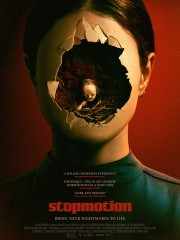
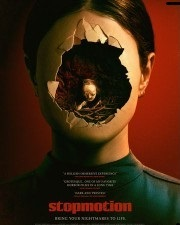
Adjusted the image card

diff --git a/components/movieSchedule/MovieCard.jsx b/components/movieSchedule/MovieCard.jsx
@@ -10,17 +10,19 @@ const MovieCard = ({ selectedDate, limit, className }) => {
 
   return (
     <div
-      className={`mt-14 mb-14 grid grid-cols-2 md:grid-cols-3 gap-4 lg:px-[45px] ${className}`}
+      className={`mt-14 mb-14 grid grid-cols-2 md:grid-cols-3 gap-6 lg:px-[45px] ${className}`}
     >
       {moviesToShow.length > 0 ? (
         moviesToShow.map((movie, index) => (
           <div key={index} className="relative w-full">
             <div className="relative border-l rounded-md overflow-hidden ">
-              <Image
-                src={movie.img}
-                alt={movie.title}
-                className="rounded-md w-full object-cover bg-center"
-              />
+              <div className="">
+                <Image
+                  src={movie.img}
+                  alt={movie.title}
+                  className="rounded-md w-full object-contain h-[320px]"
+                />
+              </div>
               <div className="absolute bottom-0 left-0 right-0 p-4 bg-black bg-opacity-50 w-full">
                 <h1 className="md:text-[1.5rem]  xs:text-[0.8rem] font-bold animate__animated animate__fadeInDown animate__slower">
                   {movie.title}
@@ -29,13 +31,13 @@ const MovieCard = ({ selectedDate, limit, className }) => {
                   {movie.genre}
                 </p>
                 {/* <div className="flex items-center justify-between gap-5 w-full"> */}
-                  <Link
-                    href={`/movies/${movie.id}`}
-                    className="border py-1 md:px-2 xs:px-1 text-[0.8rem] md:text-[1rem] xs:text-center rounded-md text-gray-300 shadow-[2px_2px_2px_#f993f9] animate__animated animate__fadeInLeft animate__slower"
-                  >
-                    View Details
-                  </Link>
-                  {/* <Link
+                <Link
+                  href={`/movies/${movie.id}`}
+                  className="border py-1 md:px-2 xs:px-1 text-[0.8rem] md:text-[1rem] xs:text-center rounded-md text-gray-300 shadow-[2px_2px_2px_#f993f9] animate__animated animate__fadeInLeft animate__slower"
+                >
+                  View Details
+                </Link>
+                {/* <Link
                     href={`/movies/${movie.id}`}
                     className="text-white border text-center rounded-md py-1 text-[0.8rem] md:text-[1rem] font-bold w-[100px] animate__animated animate__fadeInRight animate__slower"
                   >

diff --git a/pages/movies/[id].js b/pages/movies/[id].js
@@ -60,7 +60,7 @@ const TicketDetails = () => {
           </button>
           <div className="flex flex-col md:flex-row md:items-center gap-8 bg-gray-900 rounded-lg">
             <div className="pl-3 pt-3 md:pb-3">
-              <Image src={movie.img} alt={movie.title} className="rounded-lg" />
+              <Image src={movie.img} alt={movie.title} className="rounded-lg h-[500px] w-auto" />
             </div>
             <div className="px-3 pb-3">
               <h2 className="text-[1rem] md:text-[2rem]">
